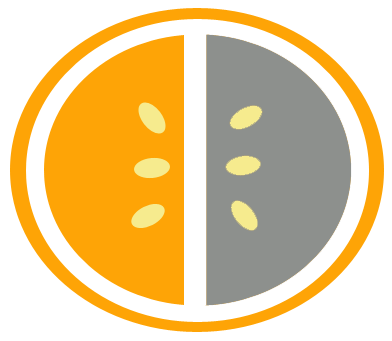
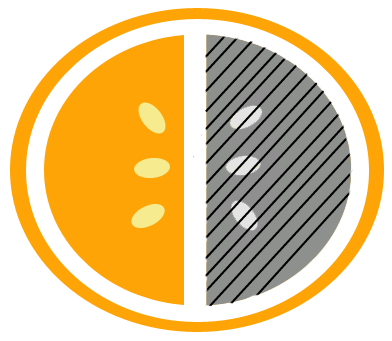
Se modificaron las imagenes para que el area sombreada sean lineas, ademas se agrego un mensaje de Game Over cuando terminas todos los niveles

Changed region(s): [[0.5204, 0.088, 0.9184, 0.9091], [0.5204, 0.8798, 0.551, 0.9091]]

diff --git a/javascript/juego.js b/javascript/juego.js
@@ -62,20 +62,21 @@ $('.mute').click(function (e){
 
 
 function pedirDatos() {
-    var operation = {"operation": undefined};
-    switch (nivel) {
-        case 1:
+    if(nivel===2){
+        showGameOver();
+    }else{
+        var operation = {"operation": undefined};
+        switch (nivel) {
+            case 1:
             operation.operation = "sum";
             break;
-        case 2:
+            case 2:
             operation.operation = "rest";
             break;
-        case 3:
-            operation.operation = "mul";
-            break;
-    }
-    $.get("../core/php/DataManager.php", operation).done(function (data) {
-        if (!data) {
+
+        }
+        $.get("../core/php/DataManager.php", operation).done(function (data) {
+            if (!data) {
             //No hay datos
             salirJuego();
         }
@@ -91,7 +92,8 @@ function pedirDatos() {
         procesarDatos(datos);
     });
 
-    iniciarContador(initTime);
+        iniciarContador(initTime);
+    }
 }
 
 
@@ -152,26 +154,26 @@ function asignarListeners(carta) {
 var intervaloContador;
 
 function iniciarContador(time) {
-     $("#timer").removeClass("poco-tiempo").addClass("buen-tiempo");
-    $("#timer").text(time);
-    intervaloContador = setInterval(function () {
-        var tiempoDecr = parseInt($("#timer").text());
+ $("#timer").removeClass("poco-tiempo").addClass("buen-tiempo");
+ $("#timer").text(time);
+ intervaloContador = setInterval(function () {
+    var tiempoDecr = parseInt($("#timer").text());
 
-        tiempoDecr = tiempoDecr - 1;
+    tiempoDecr = tiempoDecr - 1;
 
-        if (tiempoDecr === 30) {
-            $("#timer").removeClass("buen-tiempo").addClass("poco-tiempo");
-        }
-        if (tiempoDecr === 0) {
-            clearInterval(intervaloContador);
-            deleteLife();
-            reloadTimer();
-            return;
-        }
+    if (tiempoDecr === 30) {
+        $("#timer").removeClass("buen-tiempo").addClass("poco-tiempo");
+    }
+    if (tiempoDecr === 0) {
+        clearInterval(intervaloContador);
+        deleteLife();
+        reloadTimer();
+        return;
+    }
 
-        $('#timer').text(tiempoDecr);
+    $('#timer').text(tiempoDecr);
 
-    }, 1000);
+}, 1000);
 }
 
 function stopTime() {
@@ -225,21 +227,21 @@ function confirmarRespuesta(respuesta, caso) {
      * 4-> Respuesta y conceptos NO iguales: Acertado
      */
 
-    switch (caso) {
+     switch (caso) {
         case 1:
-            sacarCartas(parejaSeleccionada);
-            break;
+        sacarCartas(parejaSeleccionada);
+        break;
         case 2:
-            ocultarSeleccionados();
-            deleteLife();
-            break;
+        ocultarSeleccionados();
+        deleteLife();
+        break;
         case 3:
-            ocultarSeleccionados();
-            deleteLife();
-            break;
+        ocultarSeleccionados();
+        deleteLife();
+        break;
         case 4:
-            ocultarSeleccionados();
-            break;
+        ocultarSeleccionados();
+        break;
 
 
     }
@@ -265,7 +267,7 @@ function ocultarSeleccionados() {
  var puntaje = parseInt($("#puntaje").val());
  puntaje = puntaje + puntos;
  $("#puntaje").val(puntaje);
- }*/
+}*/
 
 function sacarCartas(parejasSeleccionada) {
     for (var i = 0, max = parejasSeleccionada.length; i < max; i++) {
@@ -409,6 +411,33 @@ function showAlertExtraLife() {
         text: 'Haz ganado una vida extra',
         imageUrl: '../img/heart.png',
         animation: false
+    });
+}
+
+function showGameOver(){
+    swal({
+        title: 'Game Over',
+        text: 'Felicidades!! Terminaste el juego',
+        imageUrl: '../img/trophy.png',
+        animation: false,
+        allowOutsideClick: false,
+        allowEscapeKey: false,
+        showConfirmButton: true,
+        showCloseButton: false,
+        showCancelButton: true,
+        confirmButtonText: "Reiniciar",
+        cancelButtonText: "Regresar al menu principal"
+    }).then(function () {
+
+        stopTime();
+        pedirDatos();
+        reloadPage();
+        
+
+    }, function (dismiss) {
+        if (dismiss === 'cancel') {
+            location.href = './menu.html';
+        }
     });
 }
 
